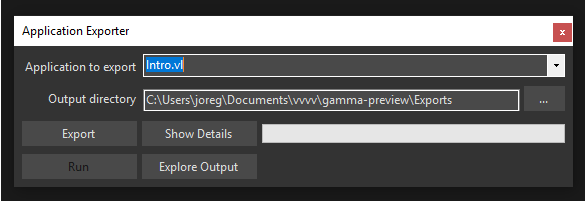
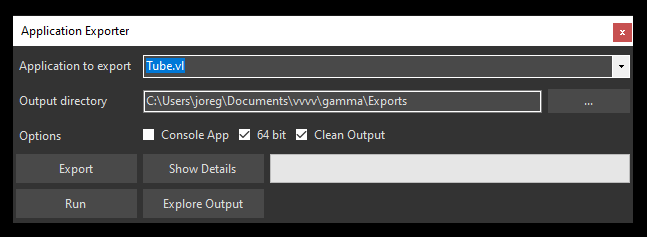
added infos on export options

diff --git a/reference/hde/exporting.md b/reference/hde/exporting.md
@@ -15,10 +15,27 @@ vvvv allows you to export a patch into an executable, standalone program. In ord
 After a successful export, the output directory will contain a directory with the name of your application. Inside this directory you find the executable. To run the program on another PC you need to copy the whole content of this directory.
 
 ### Source Directory
-Next to the application directory you'll also find a \src directory. This is an artefact that vvvv creates during export and can be safely deleted.
+Next to the application directory you'll also find a `\src` directory. This is an artefact that vvvv creates during export and can be safely deleted.
 
 > [!NOTE]
-> .NET developers my find this interesting though as it contains a completely valid c# solution of the exported project that can be opened, viewed and modified with Visual Studio.
+> .NET developers may find this interesting though, as it contains a completely valid c# solution of the exported project that can be opened, viewed and modified with Visual Studio.
+
+## Options
+### Console App
+Choose between Windows or Console app. A Console app will open a windows Console and run the Update operation for only one frame, then immediately Dispose itself. So in order to keep it running you need to take care of blocking the operation yourself. You can do that for example by running your program in an endless loop... 
+
+Useful nodes: 
+- Args [System] to access commandline arguments the app was called with
+- Nodes from the advanced [System.Console] category
+
+Useful libraries:
+- [Terminal.Gui](https://github.com/migueldeicaza/gui.cs) for creating  applications with a text based UI
+
+### 64bit
+Disable to export for 32bit architectures.
+
+### Clean Output
+If active, removes artefacts of previous exports (ie. deletes the \src folder) before exporting. This will cause exports to take longer but also makes sure previous artefacts don't interfere with the new export.
 
 ## Assets
 
@@ -41,6 +58,9 @@ Referencing the nuget VL.CoreLib.Windows adds the following nodes:
 
 These allow you to configure the renderers caption, controlbox, framing and more.
 
+## Code Signing
+In order to have your executables to run without a warning on other PCs, you need to sign them with a certificate using [SignTool](https://docs.microsoft.com/en-us/windows/win32/seccrypto/signtool).
+
 ## Troubleshooting
 In case the export fails, the console will be opened to show there was an error.
 
@@ -48,6 +68,3 @@ In case the export fails, the console will be opened to show there was an error.
 <center>The Application Exporter reporting a problem</center>
 
 Please send us the console output by pressing "Copy To Clipboard" and pasting it to us via forum or chat.
-
-## Code Signing
-In order to have your executables to run without a warning on other PCs, you need to sign them with a certificate using [SignTool](https://docs.microsoft.com/en-us/windows/win32/seccrypto/signtool).
